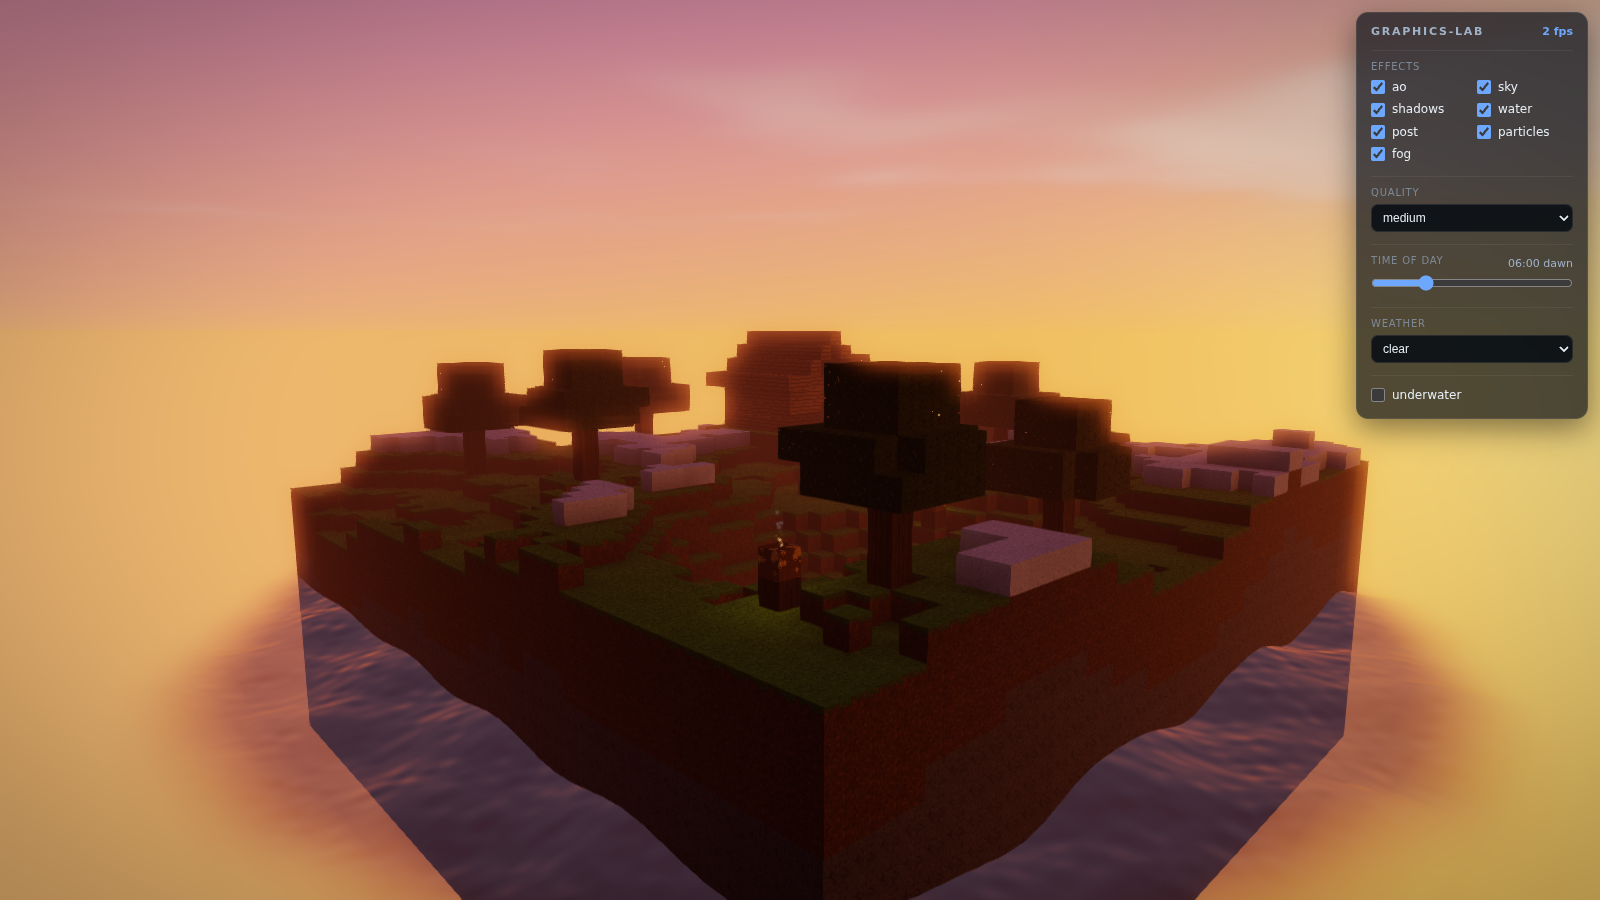
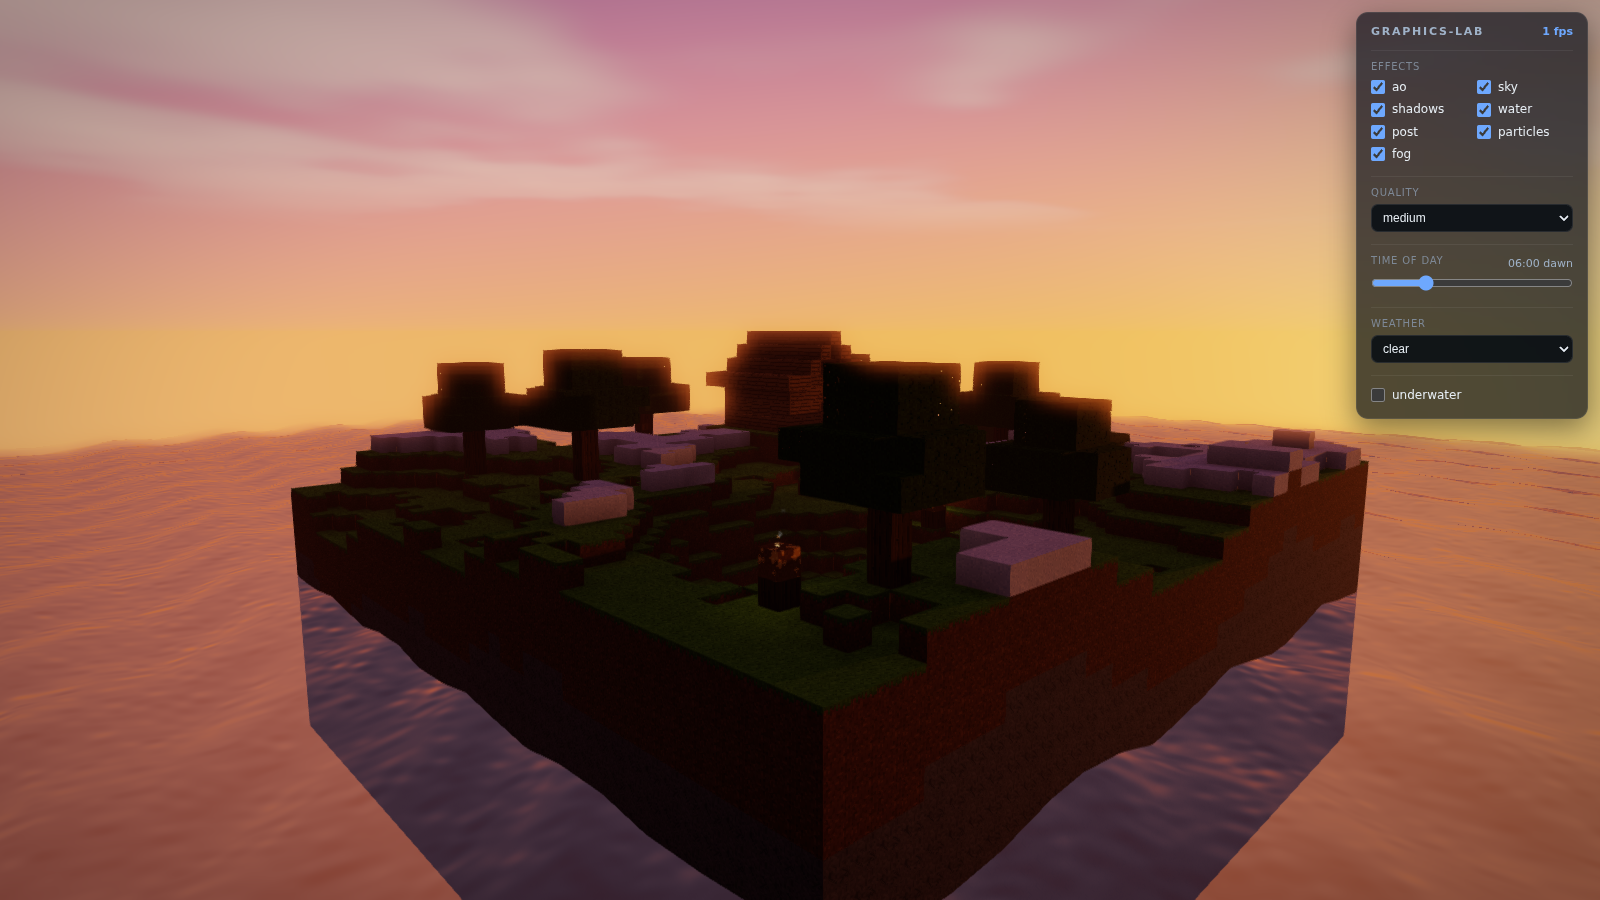
graphics-lab: final polish — underwater fog, day shadows, sky/fog balance, snow, bloom ghost
Claude-Session: https://claude.ai/code/session_01UHQzAZuUVYypPtmRcowQRx

diff --git a/graphics-lab/src/sky.js b/graphics-lab/src/sky.js
@@ -48,7 +48,7 @@ const { clamp, smoothstep, lerp } = THREE.MathUtils;
 // ---------------------------------------------------------------------------
 const c = (hex) => new THREE.Color(hex);
 
-const DAY_ZENITH    = c(0x2565cc); // rich sky blue straight up
+const DAY_ZENITH    = c(0x1d68e6); // rich saturated sky blue straight up
 const DAY_HORIZON   = c(0xb4d0ec); // light blue-grey at the horizon (fog match)
 const DUSK_ZENITH   = c(0x2e4f9e); // twilight zenith stays BLUISH, never orange
 const DUSK_HORIZON  = c(0xff7a30); // warm orange band at the horizon
@@ -96,22 +96,32 @@ function mulberry32(seed) {
 }
 
 // ---------------------------------------------------------------------------
-// Procedural sprite textures (soft radial sun, cratered moon).
+// Procedural sprite textures. Minecraft-style SQUARE sun and moon quads (a
+// crisp square core carries the disc; a soft radial gradient stays underneath
+// purely as the glow/bloom feed — round discs read as generic, not Minecraft).
 // ---------------------------------------------------------------------------
 function makeSunTexture() {
   const s = 128;
   const cv = document.createElement('canvas');
   cv.width = cv.height = s;
   const ctx = cv.getContext('2d');
+  // Soft radial glow (kept for the bloom halo; core alpha is low so the
+  // square silhouette below stays crisp).
   const g = ctx.createRadialGradient(s / 2, s / 2, 0, s / 2, s / 2, s / 2);
-  g.addColorStop(0.0, 'rgba(255,255,255,1.0)');
-  g.addColorStop(0.14, 'rgba(255,248,228,1.0)');
-  g.addColorStop(0.22, 'rgba(255,236,190,0.85)');
-  g.addColorStop(0.45, 'rgba(255,208,140,0.32)');
-  g.addColorStop(0.75, 'rgba(255,180,110,0.08)');
+  g.addColorStop(0.0, 'rgba(255,244,214,0.55)');
+  g.addColorStop(0.30, 'rgba(255,224,160,0.28)');
+  g.addColorStop(0.60, 'rgba(255,196,124,0.10)');
   g.addColorStop(1.0, 'rgba(255,170,100,0.0)');
   ctx.fillStyle = g;
   ctx.fillRect(0, 0, s, s);
+  // Square white-yellow sun: warm rim quad + bright core quad.
+  const half = s / 2;
+  const q = Math.round(s * 0.19); // core half-side (~24px)
+  const rim = 5;
+  ctx.fillStyle = 'rgba(255,208,120,0.92)';
+  ctx.fillRect(half - q - rim, half - q - rim, (q + rim) * 2, (q + rim) * 2);
+  ctx.fillStyle = 'rgba(255,250,224,1.0)';
+  ctx.fillRect(half - q, half - q, q * 2, q * 2);
   const tex = new THREE.CanvasTexture(cv);
   tex.colorSpace = THREE.SRGBColorSpace;
   return tex;
@@ -124,39 +134,21 @@ function makeMoonTexture() {
   const ctx = cv.getContext('2d');
   // soft outer glow so the moon reads even against a lightening sky
   const glow = ctx.createRadialGradient(s / 2, s / 2, s * 0.24, s / 2, s / 2, s / 2);
-  glow.addColorStop(0.0, 'rgba(214,226,248,0.5)');
-  glow.addColorStop(0.55, 'rgba(210,222,245,0.14)');
+  glow.addColorStop(0.0, 'rgba(214,226,248,0.40)');
+  glow.addColorStop(0.55, 'rgba(210,222,245,0.12)');
   glow.addColorStop(1.0, 'rgba(210,222,245,0.0)');
   ctx.fillStyle = glow;
   ctx.fillRect(0, 0, s, s);
-  // solid pale disc with a soft limb
-  const disc = ctx.createRadialGradient(
-    s * 0.44, s * 0.44, s * 0.05,
-    s / 2, s / 2, s * 0.30,
-  );
-  disc.addColorStop(0.0, 'rgba(248,250,255,1.0)');
-  disc.addColorStop(0.80, 'rgba(220,229,247,1.0)');
-  disc.addColorStop(1.0, 'rgba(196,208,232,0.0)');
-  ctx.beginPath();
-  ctx.arc(s / 2, s / 2, s * 0.30, 0, TWO_PI);
-  ctx.fillStyle = disc;
-  ctx.fill();
-  // subtle craters (clipped to the disc)
-  ctx.save();
-  ctx.beginPath();
-  ctx.arc(s / 2, s / 2, s * 0.30, 0, TWO_PI);
-  ctx.clip();
-  ctx.fillStyle = 'rgba(158,172,200,0.38)';
-  const craters = [
-    [0.42, 0.40, 0.055], [0.58, 0.52, 0.075], [0.50, 0.63, 0.045],
-    [0.62, 0.38, 0.035], [0.40, 0.56, 0.040],
-  ];
-  for (const [cx, cy, cr] of craters) {
-    ctx.beginPath();
-    ctx.arc(s * cx, s * cy, s * cr, 0, TWO_PI);
-    ctx.fill();
-  }
-  ctx.restore();
+  // Square pale moon quad with a few darker pixel-block "maria".
+  const half = s / 2;
+  const q = Math.round(s * 0.17); // half-side (~22px)
+  ctx.fillStyle = 'rgba(228,236,250,1.0)';
+  ctx.fillRect(half - q, half - q, q * 2, q * 2);
+  ctx.fillStyle = 'rgba(198,210,234,1.0)';
+  const px = Math.round(q * 0.55); // chunky pixel blocks
+  ctx.fillRect(half - q + 3, half - q + 3, px, px);              // top-left
+  ctx.fillRect(half + q - px - 4, half - 2, px, px);             // mid-right
+  ctx.fillRect(half - px + 2, half + q - px - 3, px, px - 3);    // bottom
   const tex = new THREE.CanvasTexture(cv);
   tex.colorSpace = THREE.SRGBColorSpace;
   return tex;
@@ -282,7 +274,7 @@ export class DynamicSky {
         uSunDiscCos: { value: Math.cos(3 * DEG) },
         uSunDiscSoft: { value: 0.0012 },
         uSunDiscIntensity: { value: 0 },
-        uGradPow: { value: 0.55 },
+        uGradPow: { value: 0.40 },
       },
       vertexShader: /* glsl */ `
         ${FAR_HUG_GLSL}
@@ -504,10 +496,12 @@ export class DynamicSky {
         ${FBM_GLSL}
         void main() {
           vec2 uvc = vUv - 0.5;
-          float edge = smoothstep(0.5, 0.28, length(uvc));
-          vec2 p = vUv * 5.0 + uWind * uTime;
+          float edge = smoothstep(0.5, 0.20, length(uvc));
+          // Higher noise frequency (x8) so several distinct puffs sit in the
+          // visible sky band above the island instead of one faint smear.
+          vec2 p = vUv * 8.0 + uWind * uTime;
           float n = fbm(p);
-          float density = smoothstep(uCoverage, uCoverage + 0.24, n);
+          float density = smoothstep(uCoverage, uCoverage + 0.16, n);
           float shade = smoothstep(0.25, 0.85, n);
           vec3 col = mix(uCloudShadow, uCloudLit, shade);
           float alpha = density * edge * uOpacity;
@@ -614,21 +608,22 @@ export class DynamicSky {
     this._zenithColor.copy(NIGHT_ZENITH).lerp(DAY_ZENITH, dayAmt);
     this._zenithColor.lerp(DUSK_ZENITH, tw * 0.4);
     this._domeMat.uniforms.uGlowStrength.value = tw * 0.85;
-    // Steeper gradient at twilight: blue arrives lower in the sky, so the
-    // zenith reads dark/blue while the warm band hugs the horizon.
-    this._domeMat.uniforms.uGradPow.value = lerp(0.55, 0.34, tw);
+    // Day baseline 0.40 pulls the rich zenith blue well down toward the
+    // horizon (the old 0.55 left the upper sky a featureless pale haze);
+    // steeper still at twilight so the warm band hugs the horizon.
+    this._domeMat.uniforms.uGradPow.value = lerp(0.40, 0.34, tw);
 
-    // ---- Sun glow + disc (dome shader).
+    // ---- Sun glow (dome shader). The dome's ROUND disc is disabled (kept in
+    // the shader for API stability): the sun disc is now the Minecraft-style
+    // SQUARE sprite quad; a round dome disc behind it would spoil the square
+    // silhouette. The tight dome halo still carries the horizon glow.
     const sunHi = smoothstep(a, 0.05, 0.45); // 0 at horizon -> 1 high sun
     this._sunGlowColor.copy(SUN_GLOW_WARM).lerp(SUN_GLOW_NOON, sunHi);
     this._domeMat.uniforms.uSunGlow.value = Math.max(dayAmt * 0.85, tw);
-    // Disc grows and warms near the horizon (big orange rising sun), shrinks
-    // and whitens overhead. Fades out once the sun is genuinely below.
     const discAng = lerp(4.4, 2.4, sunHi) * DEG;
     this._domeMat.uniforms.uSunDiscCos.value = Math.cos(discAng);
     this._domeMat.uniforms.uSunDiscSoft.value = lerp(0.0018, 0.0008, sunHi);
-    this._domeMat.uniforms.uSunDiscIntensity.value =
-      2.2 * smoothstep(a, -0.06, 0.0);
+    this._domeMat.uniforms.uSunDiscIntensity.value = 0.0;
 
     // ---- Moon glow (dome).
     const nightF = 1 - dayAmt;
@@ -648,10 +643,12 @@ export class DynamicSky {
     this._sunSprite.scale.set(ss, ss, 1);
     this._sunSprite.visible = this._sunSpriteMat.opacity > 0.001;
 
-    // ---- Moon sprite (up at night on its low -Z arc).
+    // ---- Moon sprite (up at night on its low -Z arc). Scaled by nightF with
+    // NO daytime floor: the old 0.12 floor left a faint pale disc hanging in
+    // the day sky (it read as a phantom second sun / bloom ghost in shots).
     this._moonSprite.position.copy(this.moonDir).multiplyScalar(this._spriteR);
     this._moonSpriteMat.opacity =
-      smoothstep(this.moonDir.y, -0.03, 0.06) * (0.12 + 0.88 * nightF);
+      smoothstep(this.moonDir.y, -0.03, 0.06) * nightF;
     this._moonSprite.visible = this._moonSpriteMat.opacity > 0.001;
 
     // ---- Cloud colours + opacity (sun-tinted).
@@ -727,6 +724,20 @@ export class DynamicSky {
       this.sun.color.lerp(this._scratch2, 0.35 * wf);
       this.hemi.intensity *= (1 - 0.2 * wf);
       this.hemi.color.lerp(this._scratch2, 0.5 * wf);
+
+      // Snow-specific COOL grade (subtler than the rain grey): pull the sky
+      // and light rig toward a clearly blue steel tone so snowfall reads cold
+      // and desaturated at a glance — measurably cooler (higher blue-vs-red)
+      // than the clear-day frame, not merely dimmer.
+      if (this._weather === 'snow') {
+        this._scratch2.setHex(0x93b9f0).multiplyScalar(greyScale);
+        this._horizonColor.lerp(this._scratch2, 0.60);
+        this._zenithColor.lerp(this._scratch2, 0.45);
+        this.hemi.color.lerp(this._scratch2, 0.60);
+        this.sun.color.lerp(this._scratch2, 0.45);
+        this._cloudLit.lerp(this._scratch2, 0.45);
+        this._cloudShadow.lerp(this._scratch2, 0.30);
+      }
     }
     this._cloudMat.uniforms.uCoverage.value = 0.46 - 0.2 * wf;
   }

diff --git a/graphics-lab/src/demo.js b/graphics-lab/src/demo.js
@@ -110,9 +110,14 @@ function init() {
     sunrise: { pos: [-26, WATER_LEVEL + 6, 47], target: [54, WATER_LEVEL + 4, 63], maxPolar: 0.55 },
     closeup: { pos: [38, 25, 27], target: [29.5, 20.5, 16.5], maxPolar: 0.52 },
   };
-  // Lake centre is (13,34) r=10 in worldgen; dip to WATER_LEVEL-2 inside it.
-  const UNDER_CAM = new THREE.Vector3(13, WATER_LEVEL - 2, 40);         // ~(13,8,40)
-  const UNDER_TARGET = new THREE.Vector3(20, WATER_LEVEL + 1, 26);
+  // Underwater framing: FULLY submerged inside the lake bowl (centre (13,34),
+  // r=10, floor ~5, surface at WATER_LEVEL=10 with ~0.6u waves — so the camera
+  // sits at y=7.6, safely below every wave trough, never straddling the
+  // surface). It looks up-slope at the submerged sand rim to the NE so the
+  // frame is filled with underwater terrain, with a slice of the water
+  // surface visible overhead.
+  const UNDER_CAM = new THREE.Vector3(13, WATER_LEVEL - 2.4, 35.5);
+  const UNDER_TARGET = new THREE.Vector3(21, WATER_LEVEL + 0.2, 26.5);
 
   const camera = new THREE.PerspectiveCamera(
     55, window.innerWidth / window.innerHeight, 0.1, 4000,
@@ -191,9 +196,10 @@ function init() {
 
   const water = new Water(scene, {
     level: WATER_LEVEL,
-    size: Math.max(sx, sz) + 24,
+    size: 260,                       // wide "ocean" apron: the sea stays visible
+    // far past the island so the horizon line reads (72 ended at the fog wall)
     center: { x: sx / 2, z: sz / 2 },
-    segments: 64,
+    segments: 96,
     sunRef: sky,                     // pulls sun colour/dir + reflection colour
   });
   water.setSkyReflectionColor(sky.getFogColor());
@@ -206,7 +212,9 @@ function init() {
 
   const fog = new DistanceFog(scene, {
     mode: 'exp2',
-    density: 0.0055,
+    density: 0.0016,                 // pulled way back (was 0.0055-clamped-to-
+    // 0.0035): ~5% haze at 150u, so the ocean + horizon stay readable while
+    // only the farthest water softens into the sky
     skyRef: sky,                     // auto-tints toward the sky horizon colour
   });
   fog.setSkyColor(sky.getFogColor());
@@ -285,7 +293,9 @@ function init() {
       const mode = (w === 'rain' || w === 'snow') ? w : 'clear';
       state.weather = mode;
       ctx.weather = mode;
-      particles.setWeather(mode);          // reseed the weather field
+      // Snow runs at higher intensity: flakes fall slowly, so a heavier field
+      // is needed for the frame to read as snowfall at a glance.
+      particles.setWeather(mode, mode === 'snow' ? 0.9 : 0.7);
       sky.setWeather(mode);                // storm mood: grey sky, sun -45%
       ctxSkyColor.copy(sky.getFogColor()); // fog snaps to the graded horizon
       // DistanceFog additionally scales density from ctx.weather every frame.
@@ -295,6 +305,10 @@ function init() {
       const b = !!on;
       state.underwater = b;
       ctx.underwater = b;                  // UnderwaterOverlay + fog react to this
+      // Submerged, the bright sky dome must never leak through the murk (it
+      // used to read as a white void past the fog), so the sky visuals are
+      // hidden and restored on surfacing (honouring the GUI's sky toggle).
+      sky.setEnabled(b ? false : state.effects.sky);
       if (b) frameUnderwater();
       else applyView(currentView);
     },
@@ -392,6 +406,10 @@ function init() {
     // DistanceFog and Water both read ctx.skyColor every frame, so fog, water
     // body/reflection and sky stay seamless through sunrise/sunset.
     sky.getFogColor(ctxSkyColor);
+    // Submerged, the shared colour becomes the underwater murk colour instead,
+    // so the water surface seen from below tints deep teal — the sky-bright
+    // reflection colour used to bleach the surface plane into a white sheet.
+    if (state.underwater) underwater.getFogColor(ctxSkyColor);
 
     shadows.update(dt, ctx);
     water.update(dt, ctx);       // sun/moon intensity+colour auto-derived from

diff --git a/graphics-lab/src/particles.js b/graphics-lab/src/particles.js
@@ -27,7 +27,7 @@
 //
 // Every material carries a per-emitter SCREEN-SPACE size cap (uMaxSize) so a
 // near-camera particle can never balloon into a giant quad: rain <= 24px,
-// snow <= 12px, splash <= 20px, debris <= 28px, flame <= 80px (kept larger on
+// snow <= 14px, splash <= 20px, debris <= 28px, flame <= 80px (kept larger on
 // purpose so bloom picks up the halo at night).
 //
 // Blending: ADDITIVE for the flame (glow), NORMAL for smoke / rain / snow /
@@ -59,7 +59,7 @@ const FLAME_PER   = 12;   // flame points per torch
 const SMOKE_PER   = 5;    // smoke points per torch
 const BB_CAP      = 360;  // block-break debris ring buffer
 const RAIN_CAP    = 2000; // streaks at intensity 1
-const SNOW_CAP    = 1400; // flakes at intensity 1
+const SNOW_CAP    = 2600; // flakes at intensity 1 (dense enough to read as snow)
 const SPLASH_CAP  = 200;  // rain splash rings at the water surface
 
 // --- Shared point shader -----------------------------------------------------
@@ -228,7 +228,7 @@ export class Particles {
     this._smokeMat  = mat(this._texDot,    THREE.NormalBlending,   56);
     this._bbMat     = mat(this._texSquare, THREE.NormalBlending,   28);
     this._rainMat   = mat(this._texStreak, THREE.NormalBlending,   24);
-    this._snowMat   = mat(this._texDot,    THREE.NormalBlending,   12);
+    this._snowMat   = mat(this._texDot,    THREE.NormalBlending,   14);
     this._splashMat = mat(this._texRing,   THREE.NormalBlending,   20);
     // Lean the rain streaks into the wind.
     this._rainMat.uniforms.uRotation.value = Math.atan2(this._windX, 30) * 0.7;
@@ -348,8 +348,8 @@ export class Particles {
     for (let i = 0; i < SNOW_CAP; i++) {
       const i3 = i * 3;
       s.color[i3] = 1.0; s.color[i3 + 1] = 1.0; s.color[i3 + 2] = 1.0;
-      s.size[i] = 0.2 + rand() * 0.18;
-      s.alpha[i] = 0.85;
+      s.size[i] = 0.3 + rand() * 0.22;  // big soft flakes (screen-capped 14px)
+      s.alpha[i] = 0.95;
     }
     r.ca.needsUpdate = r.sa.needsUpdate = r.aa.needsUpdate = true;
     s.ca.needsUpdate = s.sa.needsUpdate = s.aa.needsUpdate = true;
@@ -452,6 +452,13 @@ export class Particles {
 
     const camObj = (ctx && ctx.camera) || this._camera || null;
     const cam = this._resolveCamPos(camObj);
+
+    // Underwater: hide the torch flames/smoke. Every torch in this scene sits
+    // above the surface, and their fog-exempt additive sprites would read as
+    // floating orange blobs punching through the submerged murk.
+    const uw = !!(ctx && ctx.underwater === true);
+    this._flame.pts.visible = !uw;
+    this._smoke.pts.visible = !uw;
 
     this._updateBlockBreak(dt);
     this._updateFlame(dt, elapsed);

diff --git a/graphics-lab/src/water.js b/graphics-lab/src/water.js
@@ -339,10 +339,13 @@ export class Water {
     }
 
     // --- Glint strength: full sun sparkle by day, a modest moon streak at
-    //     night; both fade through twilight so there is no pop. --------------
+    //     night; both fade through twilight so there is no pop. Underwater
+    //     the glints are nearly killed: bright speculars on the surface seen
+    //     from below would punch white holes in the murk. -------------------
     u.uSpecBoost.value = this._manualSun
       ? this._manualSunIntensity
       : dayAmt + nightAmt * 0.35;
+    if (ctx && ctx.underwater === true) u.uSpecBoost.value *= 0.15;
 
     // --- Glint colour: manual > light rig (sky sets a cool moon colour on its
     //     key light at night) > warm/cool blend fallback. --------------------
@@ -441,6 +444,15 @@ export class UnderwaterOverlay {
     return this._active;
   }
 
+  // Current underwater fog colour (already day/night graded). Hosts use this
+  // to tint other systems to the murk — e.g. the demo feeds it to ctx.skyColor
+  // while submerged so the water surface seen from below matches the fog.
+  // Pass a THREE.Color target to avoid the allocation.
+  getFogColor(target) {
+    if (target && target.isColor) return target.copy(this._underwaterFog.color);
+    return this._underwaterFog.color.clone();
+  }
+
   update(dt, ctx) {
     if (!this._enabled) {
       if (this._active) this._deactivate();
@@ -485,10 +497,11 @@ export class UnderwaterOverlay {
       background: this._scene.background || null,
     };
     this._scene.fog = this._underwaterFog;
-    // Only override a colour background (leave textures/cube-maps untouched).
-    if (this._scene.background && this._scene.background.isColor) {
-      this._scene.background = this._underwaterBg;
-    }
+    // ALWAYS take over the background (the snapshot restores it verbatim,
+    // including null). The demo scene has a null background: leaving it in
+    // place let the renderer clear / bright sky read through the murk as a
+    // white void wherever no geometry covered the frame.
+    this._scene.background = this._underwaterBg;
     this.object3d.visible = true;
     this._active = true;
   }

diff --git a/graphics-lab/src/shadows.js b/graphics-lab/src/shadows.js
@@ -70,6 +70,8 @@ export class ShadowController {
     this._lightDist = lightDistance;         // sun distance from the framed focus
     this._focusFallbackDist = 55;            // used if the look-ray misses the plane
     this._maxFocusDist = 260;
+    this._maxFocusRadius = 10;               // focus never strays further than this
+                                             // from the chunk center (see update)
 
     // Reused scratch (no per-frame allocation).
     this._sunDir = new THREE.Vector3(0, 1, 0.2).normalize(); // toward the sun
@@ -204,6 +206,23 @@ export class ShadowController {
       this._computeFocus(ctx.camera, this._focus);
     } else {
       this._focus.copy(this._center);
+    }
+
+    // 2b) CLAMP the focus to a small radius around the authored chunk center.
+    //     A shallow-pitched camera (the 'hero' view looks down only ~8 deg)
+    //     lands its ground-ray far BEYOND the island, which used to drag the
+    //     whole +-35u shadow frustum off the terrain — no visible shadows at
+    //     all. The island is only 48 wide, so the frustum must stay centred
+    //     on it; the follow-the-view offset is capped at maxFocusRadius.
+    {
+      const ox = this._focus.x - this._center.x;
+      const oz = this._focus.z - this._center.z;
+      const od = Math.sqrt(ox * ox + oz * oz);
+      if (od > this._maxFocusRadius) {
+        const s = this._maxFocusRadius / od;
+        this._focus.x = this._center.x + ox * s;
+        this._focus.z = this._center.z + oz * s;
+      }
     }
 
     // 3) Texel-snap the focus in the light's image plane to stop edge crawl.
